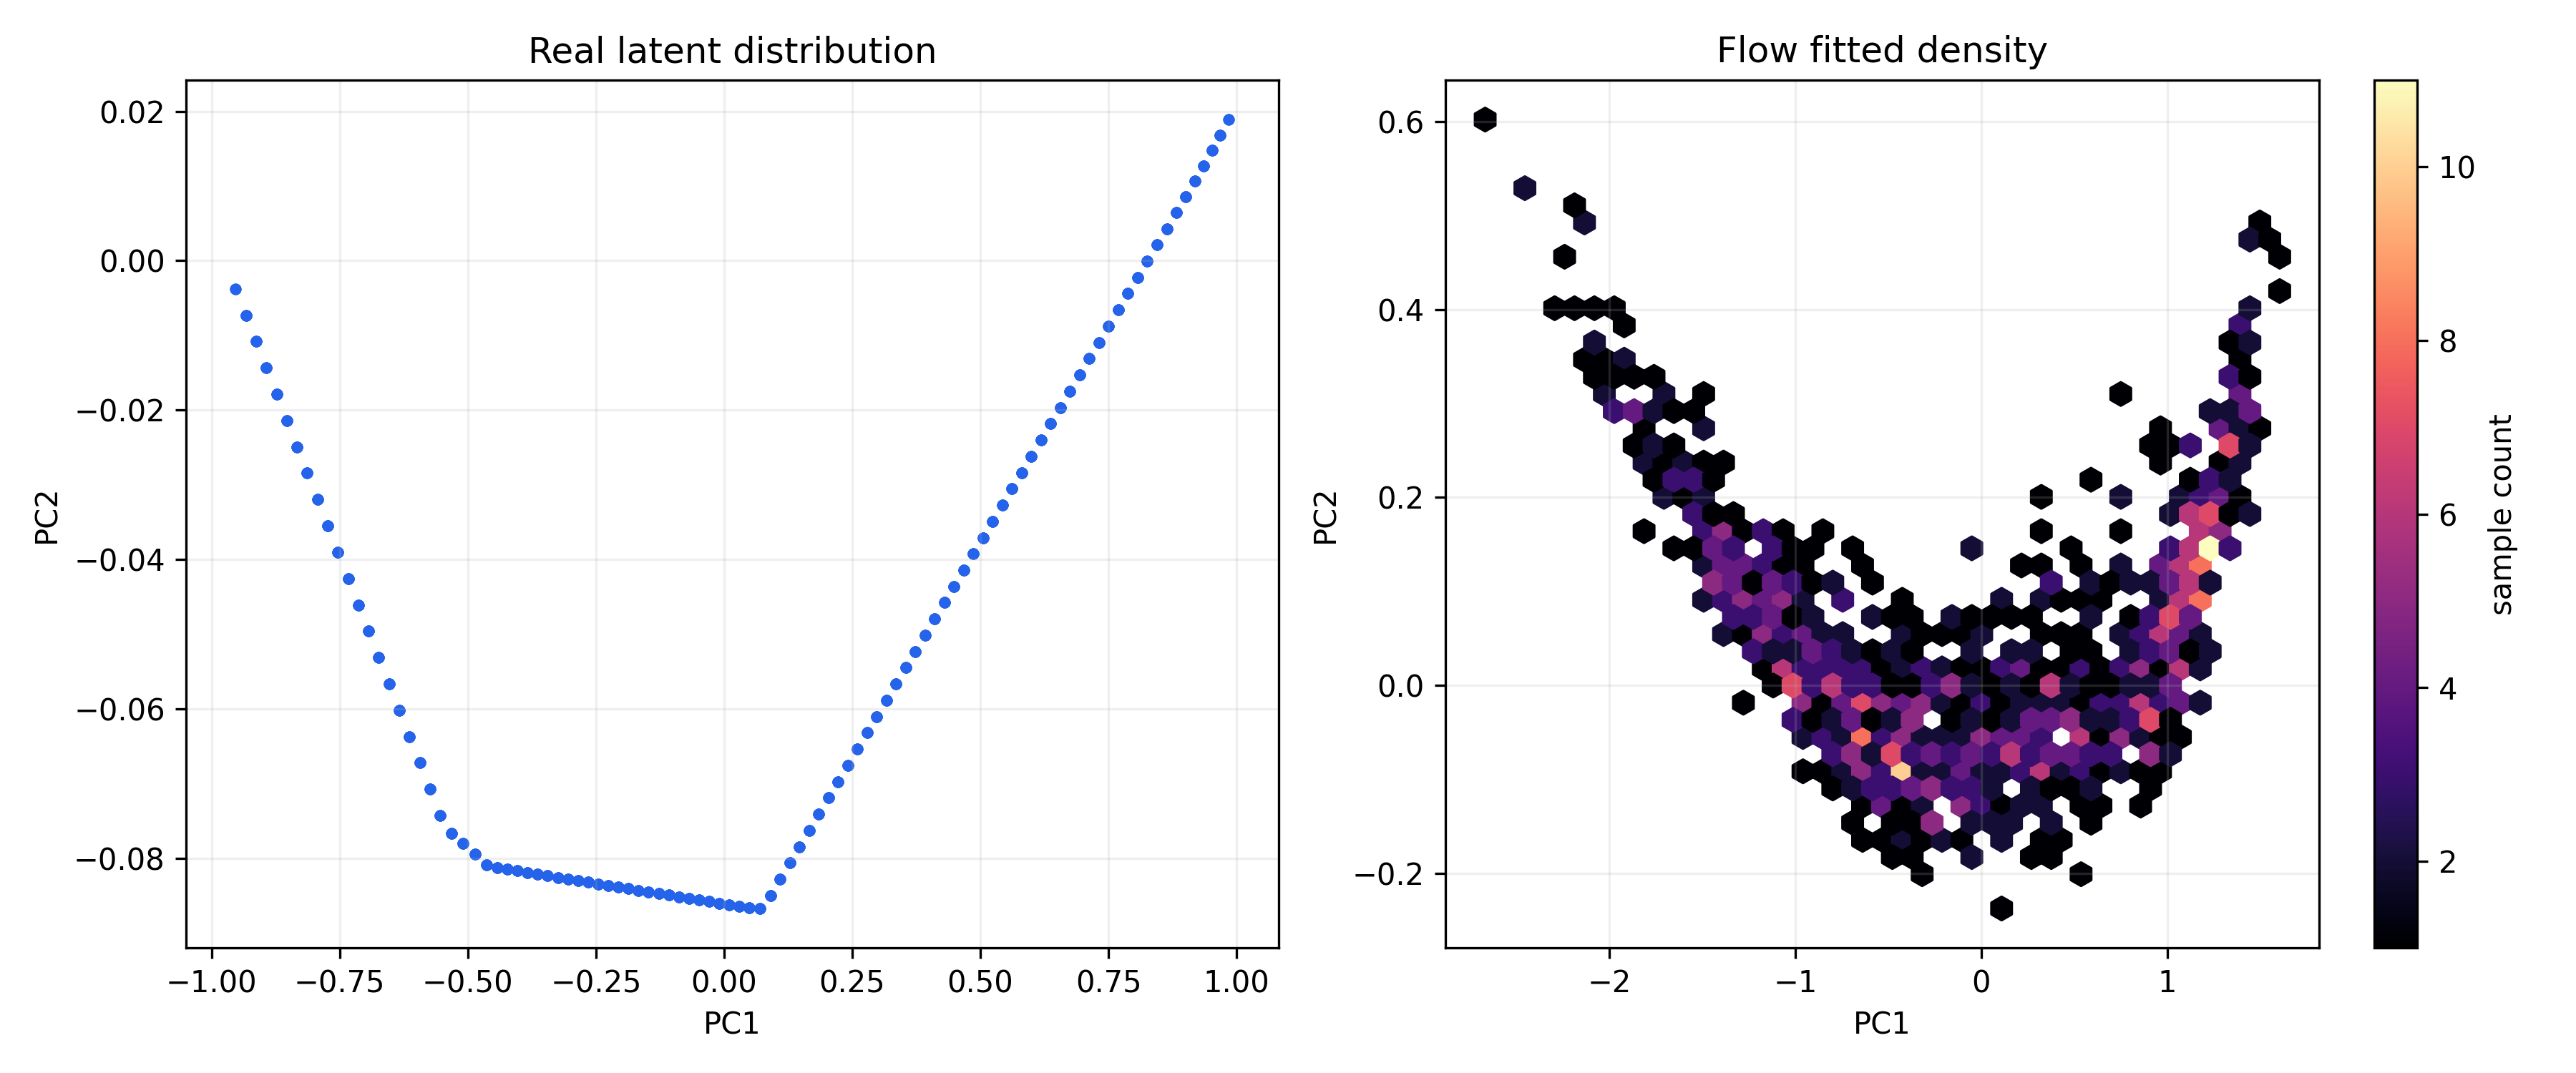
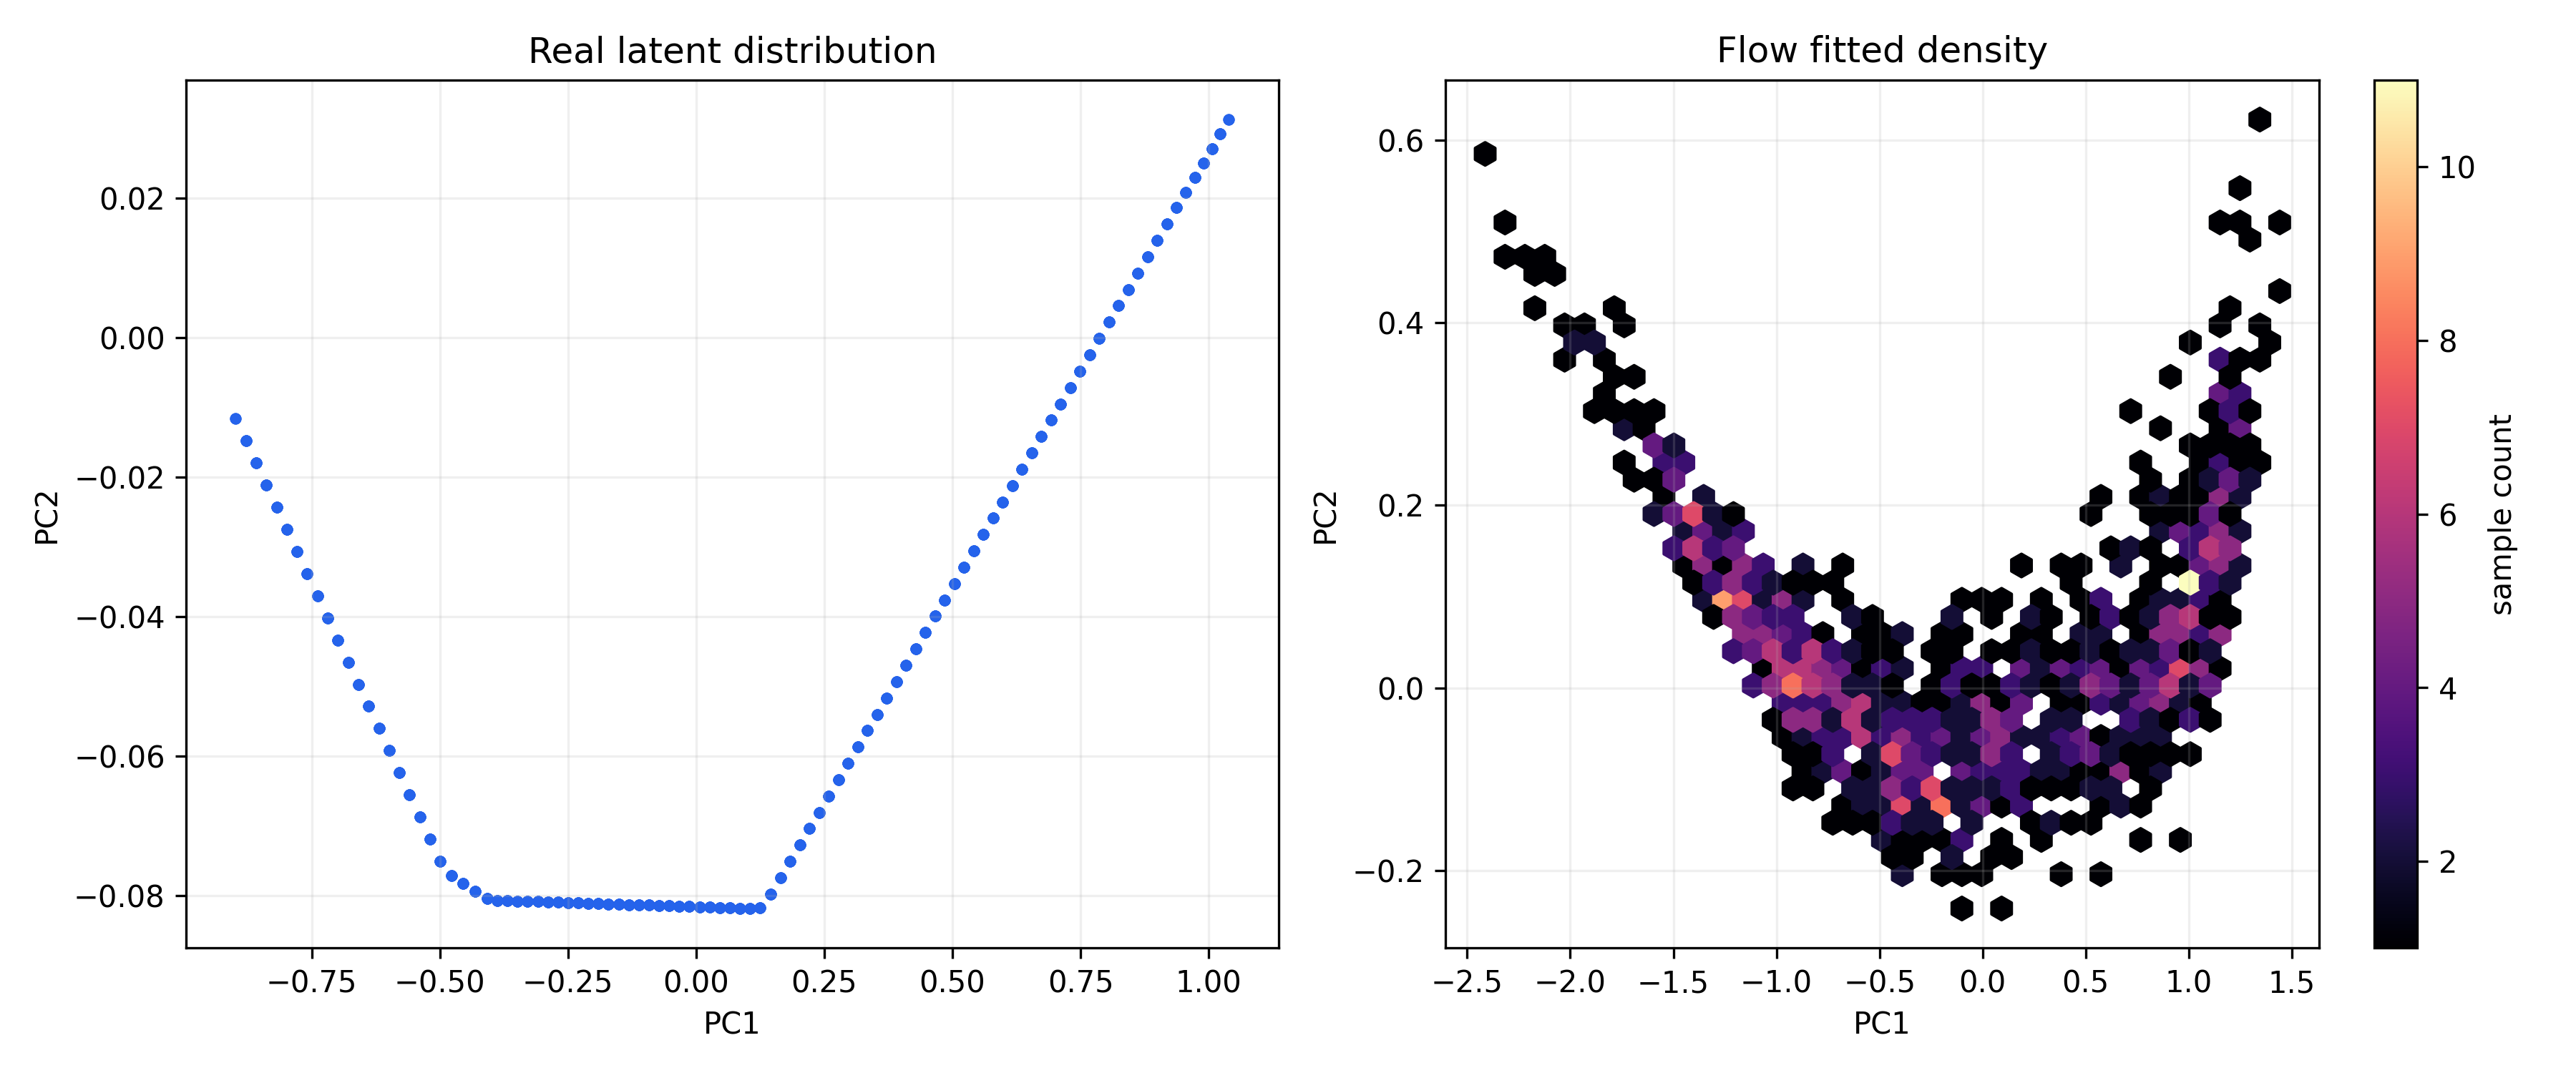
5.21

diff --git a/analysis/manifold_plot.py b/analysis/manifold_plot.py
@@ -21,6 +21,8 @@ FLOW_MODEL_PATH = MODEL_DIR / "flow.pth"
 FLOW_SAMPLES_PATH = MODEL_DIR / "flow_samples.npy"
 DIFFUSION_MODEL_PATH = MODEL_DIR / "diffusion.pth"
 DIFFUSION_CHAIN_PATH = MODEL_DIR / "diffusion_chain.npy"
+FLOW_NUM_LAYERS = 8
+FLOW_HIDDEN_DIM = 128
 
 if str(MODEL_DIR) not in sys.path:
     sys.path.insert(0, str(MODEL_DIR))
@@ -55,7 +57,9 @@ def plot_flow_comparison(
         if not flow_path.exists():
             raise FileNotFoundError(f"Missing flow checkpoint: {flow_path}")
 
-        flow = FlowModule(latent_dim)
+        flow = FlowModule(
+            latent_dim, num_layers=FLOW_NUM_LAYERS, hidden_dim=FLOW_HIDDEN_DIM
+        )
         flow.load_state_dict(torch.load(flow_path, map_location="cpu"))
         flow.eval()
         with torch.no_grad():

diff --git a/run.py b/run.py
@@ -25,8 +25,11 @@ def run_world_pipeline() -> None:
 
 
 def run_flow_pipeline() -> None:
-    run_script(PROJECT_ROOT / "model" / "train_flow.py")
+    # run_script(PROJECT_ROOT / "model" / "train_flow.py")
     run_script(PROJECT_ROOT / "analysis" / "flow_geometry.py")
+    run_script(PROJECT_ROOT / "analysis" / "flow_jacobian.py")
+    run_script(PROJECT_ROOT / "analysis" / "flow_segmentation.py")
+    run_script(PROJECT_ROOT / "analysis" / "latent_structure_comparison.py")
 
 
 def run_diffusion_pipeline() -> None:

diff --git a/report/mini_report.md b/report/mini_report.md
@@ -4,6 +4,10 @@ A preprint based on this repository is currently in preparation.
 _A mechanistic study of how discrete symbolic structure arises from continuous latent dynamics_
 
 ---
+## Draft Abstract
+Understanding how discrete symbolic structure can arise from continuous sensorimotor experience is a central challenge in cognitive science and machine learning. We study this question in a minimal 1D bouncing‑ball environment, where continuous motion is punctuated by discrete events. A predictive world model trained on this environment develops a latent trajectory that evolves along a smooth manifold segmented by sharp transitions. We hypothesize that these boundaries arise when the model must switch between distinct predictive regimes, and we show that encoder Jacobian discontinuities provide a mechanistic marker of these transitions.
+
+By combining latent geometry analysis, Jacobian inspection, and clustering, we extract symbolic states whose transitions form a compact state machine reflecting the environment’s dynamics. Importantly, similar segmentation patterns appear across MLPs, invertible flow models, and diffusion models, suggesting that the symbolic structure is driven by the environment’s predictive dynamics rather than architectural artifacts. This minimal setting reveals a core mechanism by which symbolic categories may emerge from prediction alone, and provides a foundation for extending symbol‑emergence studies to multi‑agent systems in which symbolic categories may be shared or negotiated.
 
 ## 1. Introduction
 
@@ -74,7 +78,7 @@ We analyze latent geometry using PCA, compute encoder Jacobians to detect struct
 
 ## 3. Results
 
-### Latent Geometry
+### 3.1 Latent Geometry (MLP)
 PCA suggests that latent trajectories form segmented linear regions. These segments appear to align with physical bounce events, suggesting the emergence of discrete regimes.
 
 <p align="center">
@@ -83,47 +87,60 @@ PCA suggests that latent trajectories form segmented linear regions. These segme
 
 (Figure 2: Latent PCA)
 
-### Jacobian Discontinuity
 The encoder Jacobian exhibits pronounced structural changes at bounce events. These discontinuities appear to correspond to symbolic boundaries in the latent space.
 
 <p align="center">
 	<img src="figures/fig3_jacobian.png" width="480">
 </p>
 
-(Figure 3: Encoder Jacobian)
+(Figure 3: Jacobian timeseries)
 
-### Symbolic Clusters
 Clustering the latent states yields a discrete set of symbolic categories. Each cluster can be associated with a distinct dynamical regime of the environment.
 
 <p align="center">
 	<img src="figures/fig4_symbol_clusters.png" width="420">
 </p>
 
-(Figure 4: Symbol Clusters)
+(Figure 4: Latent segmentation)
 
-### Symbolic State Machine
 From the clustered latent states, we construct a symbolic state-transition graph. The resulting structure summarizes the predictive dynamics of the environment in discrete form.
 
 <p align="center">
 	<img src="figures/fig5_state_machine.png" width="420">
 </p>
 
-(Figure 5: State Machine)
+(Figure 5: Symbolic state machine)
 
-### Flow and Diffusion Models
-Both the flow model and the diffusion model preserve a similar symbolic segmentation. This suggests that the observed boundaries are not specific to a single model choice but reflect structure in the predictive dynamics.
+### 3.2 Flow Model Analysis (Model Independence)
+We analyze the Flow model to examine whether similar latent segmentation appears under an invertible transformation.
+
+<table align="center">
+	<tr>
+		<td align="center"><img src="figures/fig6a_flow_latent_segmentation.png" width="260"><br>(Figure 6a: Flow latent segmentation)</td>
+		<td align="center"><img src="figures/fig6b_flow_jacobian_timeseries.png" width="260"><br>(Figure 6b: Flow Jacobian timeseries)</td>
+		<td align="center"><img src="figures/fig6c_latent_structure_comparison.png" width="260"><br>(Figure 6c: Latent structure comparison)</td>
+	</tr>
+</table>
+
+### 3.3 Diffusion Model Analysis (Model Independence)
+We analyze the diffusion reverse chain to examine whether the same symbolic structure appears in the generative setting.
+
+<table align="center">
+	<tr>
+		<td align="center"><img src="figures/fig7a_diffusion_reverse_chain.png" width="260"><br>(Figure 7a: diffusion reverse chain)</td>
+		<td align="center"><img src="figures/fig7b_diffusion_segmentation.png" width="260"><br>(Figure 7b: diffusion segmentation)</td>
+		<td align="center"><img src="figures/fig7c_diffusion_vs_real_latent_comparison.png" width="260"><br>(Figure 7c: diffusion vs real latent comparison)</td>
+	</tr>
+</table>
+
+### 3.4 Summary of Model-Independent Structure
+The segmentation patterns observed across the MLP, Flow, and Diffusion models appear broadly aligned. This summary figure overlays the three segmentations to highlight their shared structure.
 
 <p align="center">
-	<img src="figures/fig6_flow_geometry.png" width="420">
+	<img src="figures/fig8_segmentation_overlay.png" width="520">
 </p>
 
-(Figure 6: Flow Geometry)
-
-<p align="center">
-	<img src="figures/fig7_diffusion_dynamics.png" width="420">
-</p>
-
-(Figure 7: Diffusion Dynamics)
+(Figure 8: Segmentation overlay across MLP, Flow, and Diffusion)
 
 ---
 
@@ -201,3 +218,21 @@ the explained variances.
 - Hyperparameters
 - Training curves
 - Additional visualizations
+
+
+References
+Taniguchi, T., et al. (2026). Symbol Emergence Systems: An Interdisciplinary Discussion About Cognition, Language and Society. Springer.
+
+Taniguchi, T., et al. (2016). Symbol emergence in cognitive developmental systems: A survey. IEEE Transactions on Cognitive and Developmental Systems.
+
+Nakamura, T., et al. (2014). Multimodal categorization and symbol emergence. Advanced Robotics.
+
+Ha, D., & Schmidhuber, J. (2018). World Models. arXiv:1803.10122.
+
+Ho, J., Jain, A., & Abbeel, P. (2020). Denoising Diffusion Probabilistic Models. NeurIPS.
+
+Dinh, L., Sohl-Dickstein, J., & Bengio, S. (2017). Density estimation using Real NVP. ICLR.
+
+Arora, R., et al. (2018). Understanding deep neural networks with rectified linear units. ICLR.
+
+MacQueen, J. (1967). Some methods for classification and analysis of multivariate observations. Berkeley Symposium.